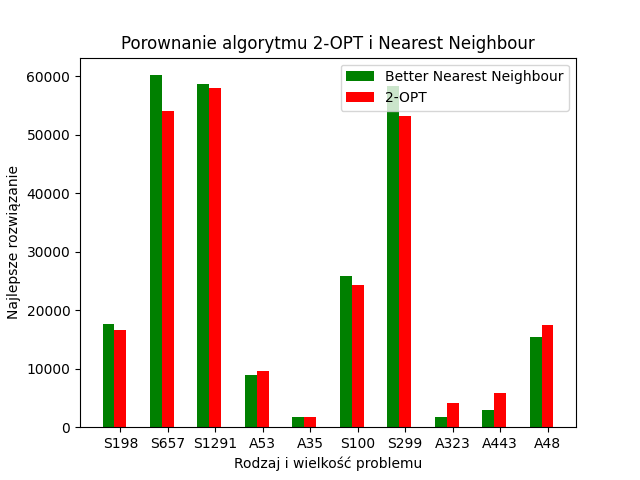
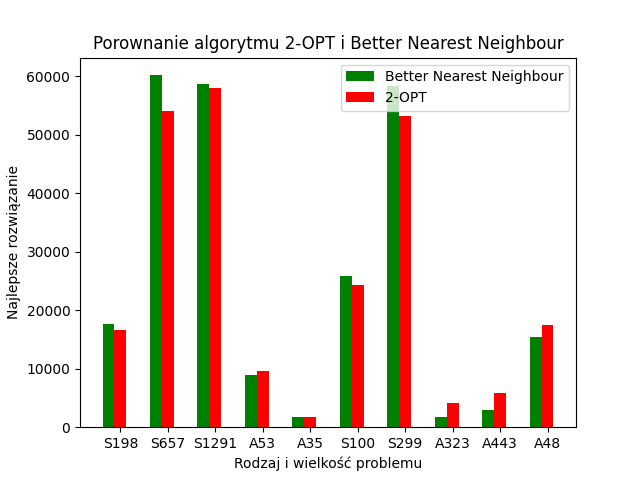
TabooList changes

Changed region(s): [[0.125, 0.0625, 0.875, 0.125]]

diff --git a/src/main/java/org/example/algorithm/TabooSearch.java b/src/main/java/org/example/algorithm/TabooSearch.java
@@ -57,7 +57,7 @@ public class TabooSearch extends Algorithm {
         if(aspirationCriteria) candidate = neighbours.get(0).getKey();
         else {
             for (Entry<Result, Move> entry : neighbours) {
-                if ( !tabooList.contains(entry.getValue())) candidate = entry.getKey();
+                if ( !tabooList.containsMove(entry.getValue())) candidate = entry.getKey();
             }
         }
         //jeśli tutaj nadal candidate jest nullem, to ozn., że mamy aspiration = false i
@@ -68,7 +68,7 @@ public class TabooSearch extends Algorithm {
             Result res = neighbour.getKey();
             Move move = neighbour.getValue();
             if(res.objFuncResult < candidate.objFuncResult){
-                if(tabooList.contains(move)){
+                if(tabooList.containsMove(move)){
                     if( aspirationCriteria && res.objFuncResult < result.objFuncResult) {
                         candidate = res;
                     }

diff --git a/src/main/java/org/example/algorithm/TabooList.java b/src/main/java/org/example/algorithm/TabooList.java
@@ -7,17 +7,31 @@ import java.util.ArrayList;
 public class TabooList extends ArrayList<Move> {
 
     int maxSize;
+    boolean moves[][];
 
     TabooList(int maxSize) {
         this.maxSize = maxSize;
+        moves = new boolean[maxSize][maxSize];
     }
 
     @Override
     public boolean add(Move move) {
         if(this.size()+1 >= maxSize) {
 //            System.out.println("Taboo list is full");
-            this.remove(this.size()-1);
+            //TODO repair going through whole list
+            Move m = this.get(this.size()-1);
+            int[] arr = m.toIntArray();
+            moves[arr[0]][arr[1]] = false;
+            this.remove(m);
         }
+        int[] arr = move.toIntArray();
+        moves[arr[0]][arr[1]] = true;
         return super.add(move);
     }
+
+    public boolean containsMove(Move move) {
+        int[] m = move.toIntArray();
+        return moves[m[0]][m[1]];
+    }
+
 }

diff --git a/src/main/java/org/example/algorithm/Neighbourhoods/Invert.java b/src/main/java/org/example/algorithm/Neighbourhoods/Invert.java
@@ -7,6 +7,7 @@ import org.example.data.TspData;
 
 import java.util.AbstractMap;
 import java.util.ArrayList;
+import java.util.HashMap;
 import java.util.Map;
 
 public class Invert implements Neighbourhood {
@@ -77,6 +78,13 @@ public class Invert implements Neighbourhood {
 
                 //utworzenie pary (nowy rezultat, ruch) i dodanie do listy sąsiadów
                 neighbours.add(new AbstractMap.SimpleEntry<Result, Move>(newResult, move));
+
+
+                Result newResult2 = new Result(result);
+                reverse(newResult2, j, i);
+                newResult.objFuncResult = newResult.calcObjectiveFunction();
+                InvertMove move2 = new InvertMove(j, i);
+                neighbours.add(new AbstractMap.SimpleEntry<Result, Move>(newResult2, move2));
             }
         }
 

diff --git a/wykresy/BnnAndTwoOpt/wykres.py b/wykresy/BnnAndTwoOpt/wykres.py
@@ -19,7 +19,7 @@ def draw():
         bnn[i] = int(line[2])
 
     r1 = np.arange(10)
-    plt.title('Porownanie algorytmu 2-OPT i Nearest Neighbour')
+    plt.title('Porownanie algorytmu 2-OPT i Better Nearest Neighbour')
     plt.bar(r1, bnn, color='green', width=l, label='Better Nearest Neighbour')
     plt.bar(r1+l, to, color='red', width=l, label='2-OPT')
     plt.xticks([r + l for r in range(10)], names)
@@ -27,7 +27,7 @@ def draw():
     plt.xlabel('Rodzaj i wielkość problemu')
     plt.ylabel('Najlepsze rozwiązanie')
     plt.savefig('BnnAndTwoOpt.png')
-    print(stats.wilcoxon(to, bnn))
+    print(stats.wilcoxon(bnn, to))
 
 
 draw()

diff --git a/src/main/java/org/example/algorithm/Neighbourhoods/Moves/InvertMove.java b/src/main/java/org/example/algorithm/Neighbourhoods/Moves/InvertMove.java
@@ -16,5 +16,12 @@ public class InvertMove implements Move {
         }
         return false;
     }
+
+    @Override
+    public int[] toIntArray() {
+        return new int[]{from, to};
+    }
+
+
 }
 

diff --git a/src/main/java/org/example/algorithm/Neighbourhoods/Moves/Move.java b/src/main/java/org/example/algorithm/Neighbourhoods/Moves/Move.java
@@ -2,4 +2,5 @@ package org.example.algorithm.Neighbourhoods.Moves;
 
 public interface Move {
     boolean checkEqual(Move move);
+    int[] toIntArray();
 }
